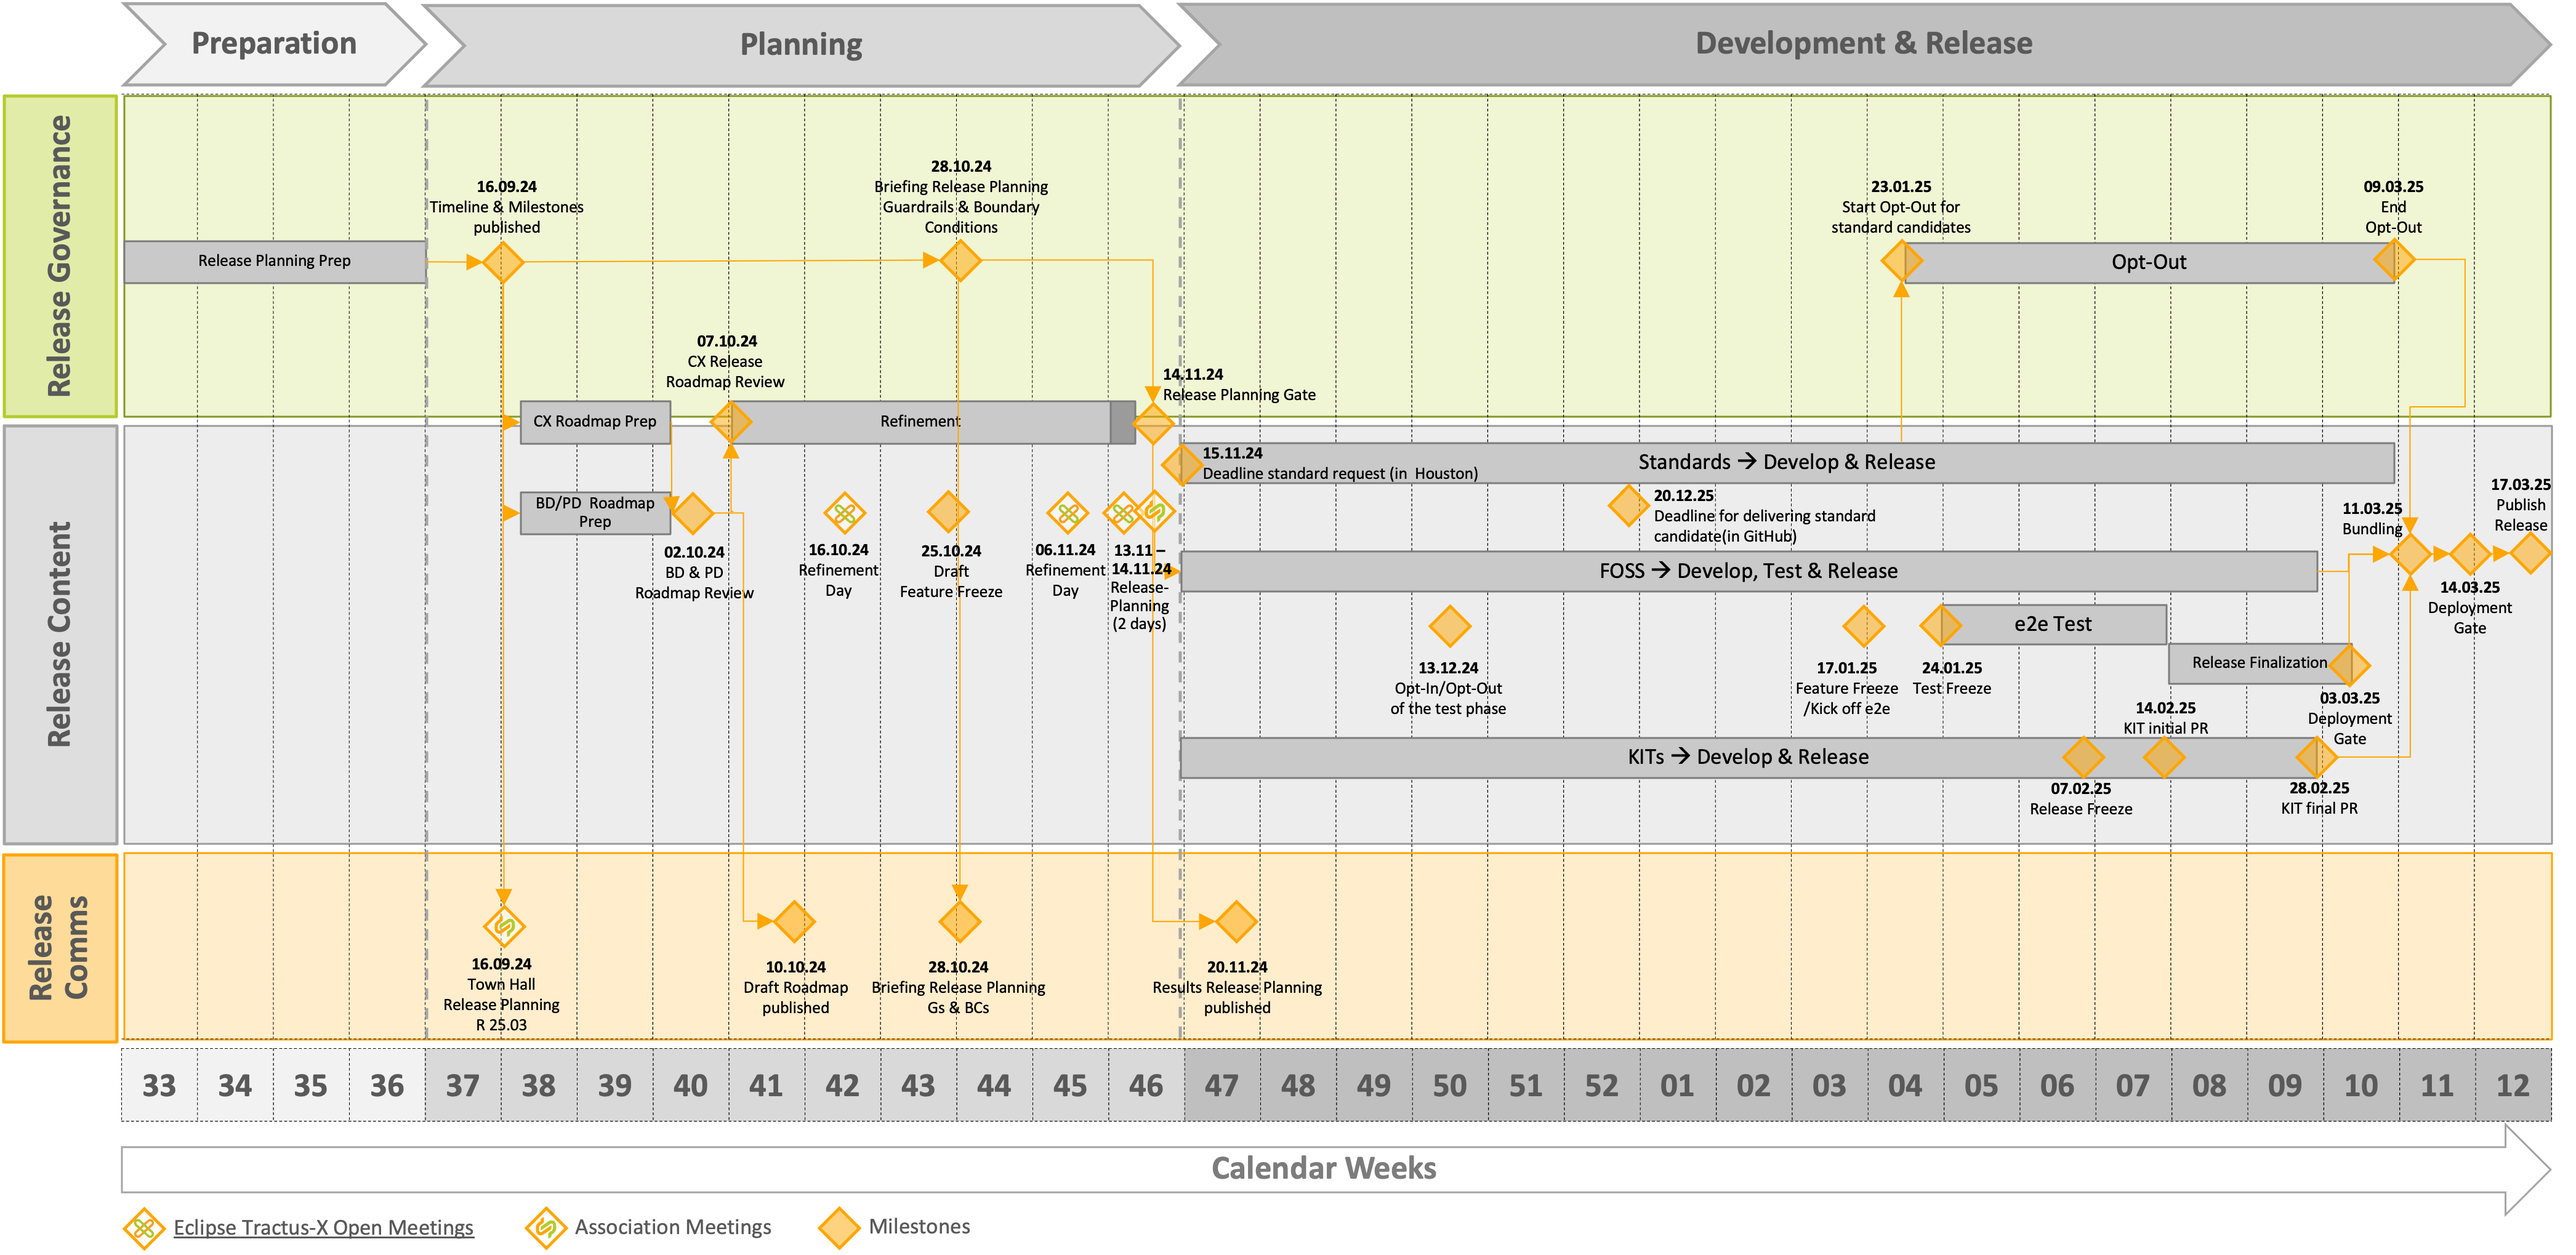
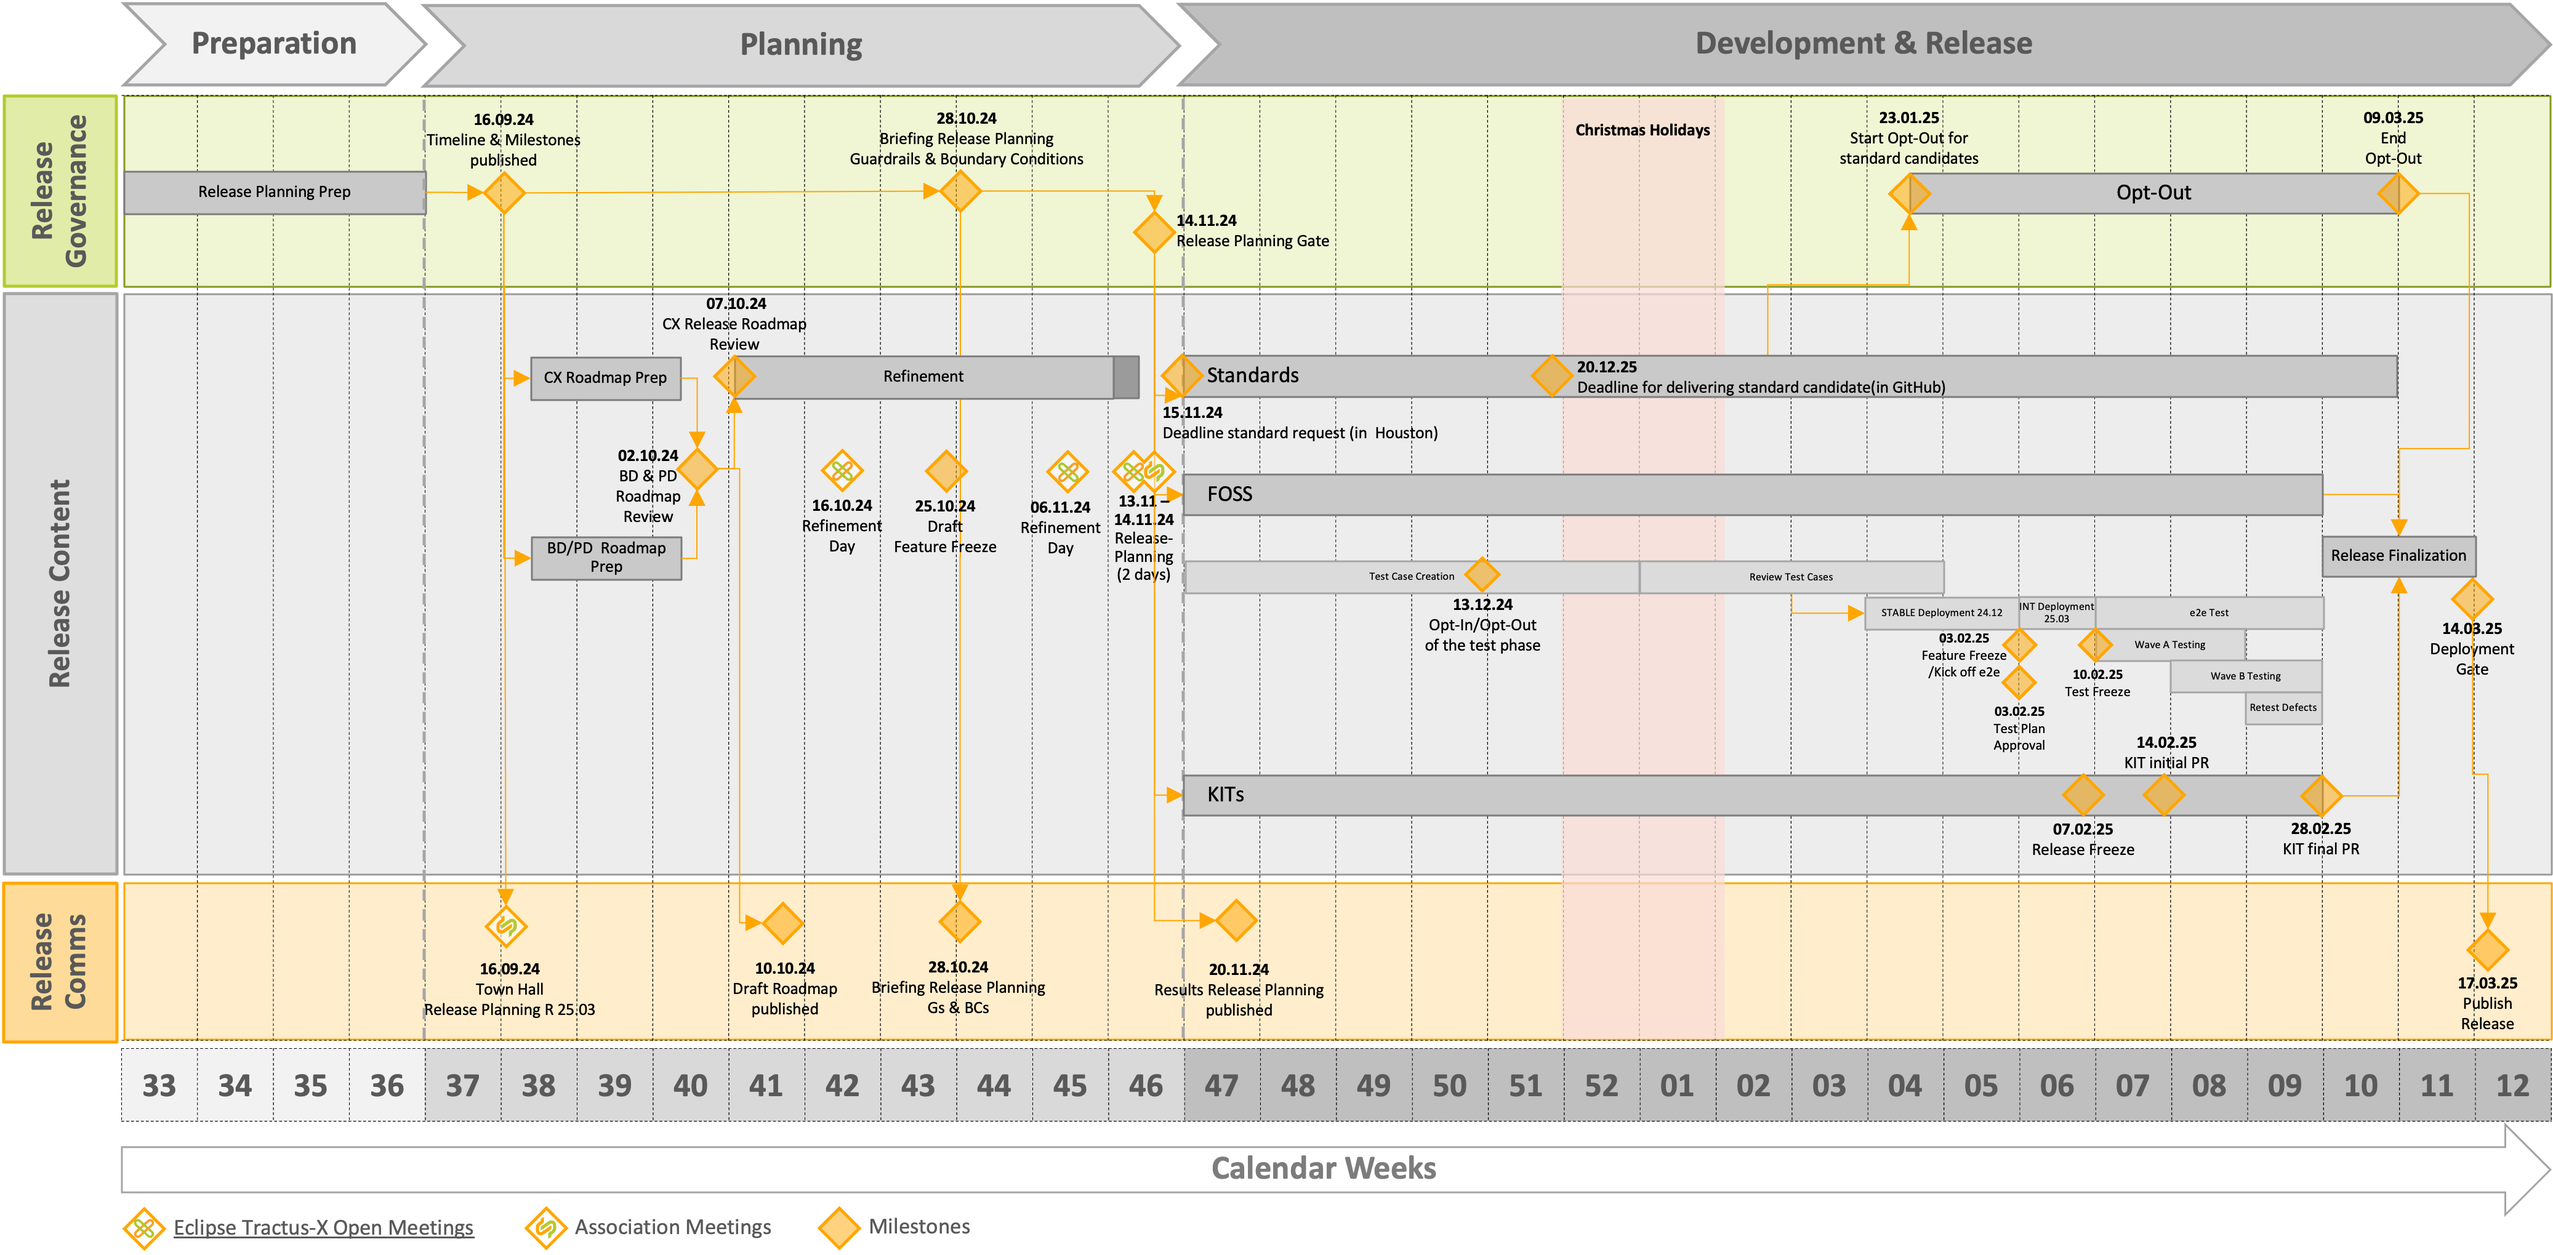
Update timeline 25.03 with test management timeline and add introducion text for the timelines

diff --git a/src/pages/timelines.md b/src/pages/timelines.md
@@ -8,10 +8,16 @@ Please have a look at [Release management](/release-management), to get more inf
 
 ![Overall timeline for Releases from 24.12 to 25.12 ](@site/static/img/cx-timeline-overview.png)
 
-## Catena-X Io (Preview), incl. Eclipse Tractus-X Release 24.12
+## Overview of Catena-X and Eclipse Tractus Release Schedules
+
+Below are the current timelines for the upcoming releases.
+Milestones marked with the Tractus-X logo are open to all and can be accessed through the [Tractus-X Open Meetings page](https://eclipse-tractusx.github.io/community/open-meetings).
+Milestones featuring the Catena-X logo indicate closed meetings, which are organized by invitation only and facilitated by the Catena-X Association.
+
+### Catena-X Io (Preview), incl. Eclipse Tractus-X Release 24.12
 
 ![Timeline for Release 24.12 ](@site/static/img/cx-timeline-24.12.png)
 
-## Catena-X Io, incl. Eclipse Tractus-X Release 25.03
+### Catena-X Io, incl. Eclipse Tractus-X Release 25.03
 
 ![Timeline for Release 25.03](@site/static/img/cx-timeline-25.03.png)
